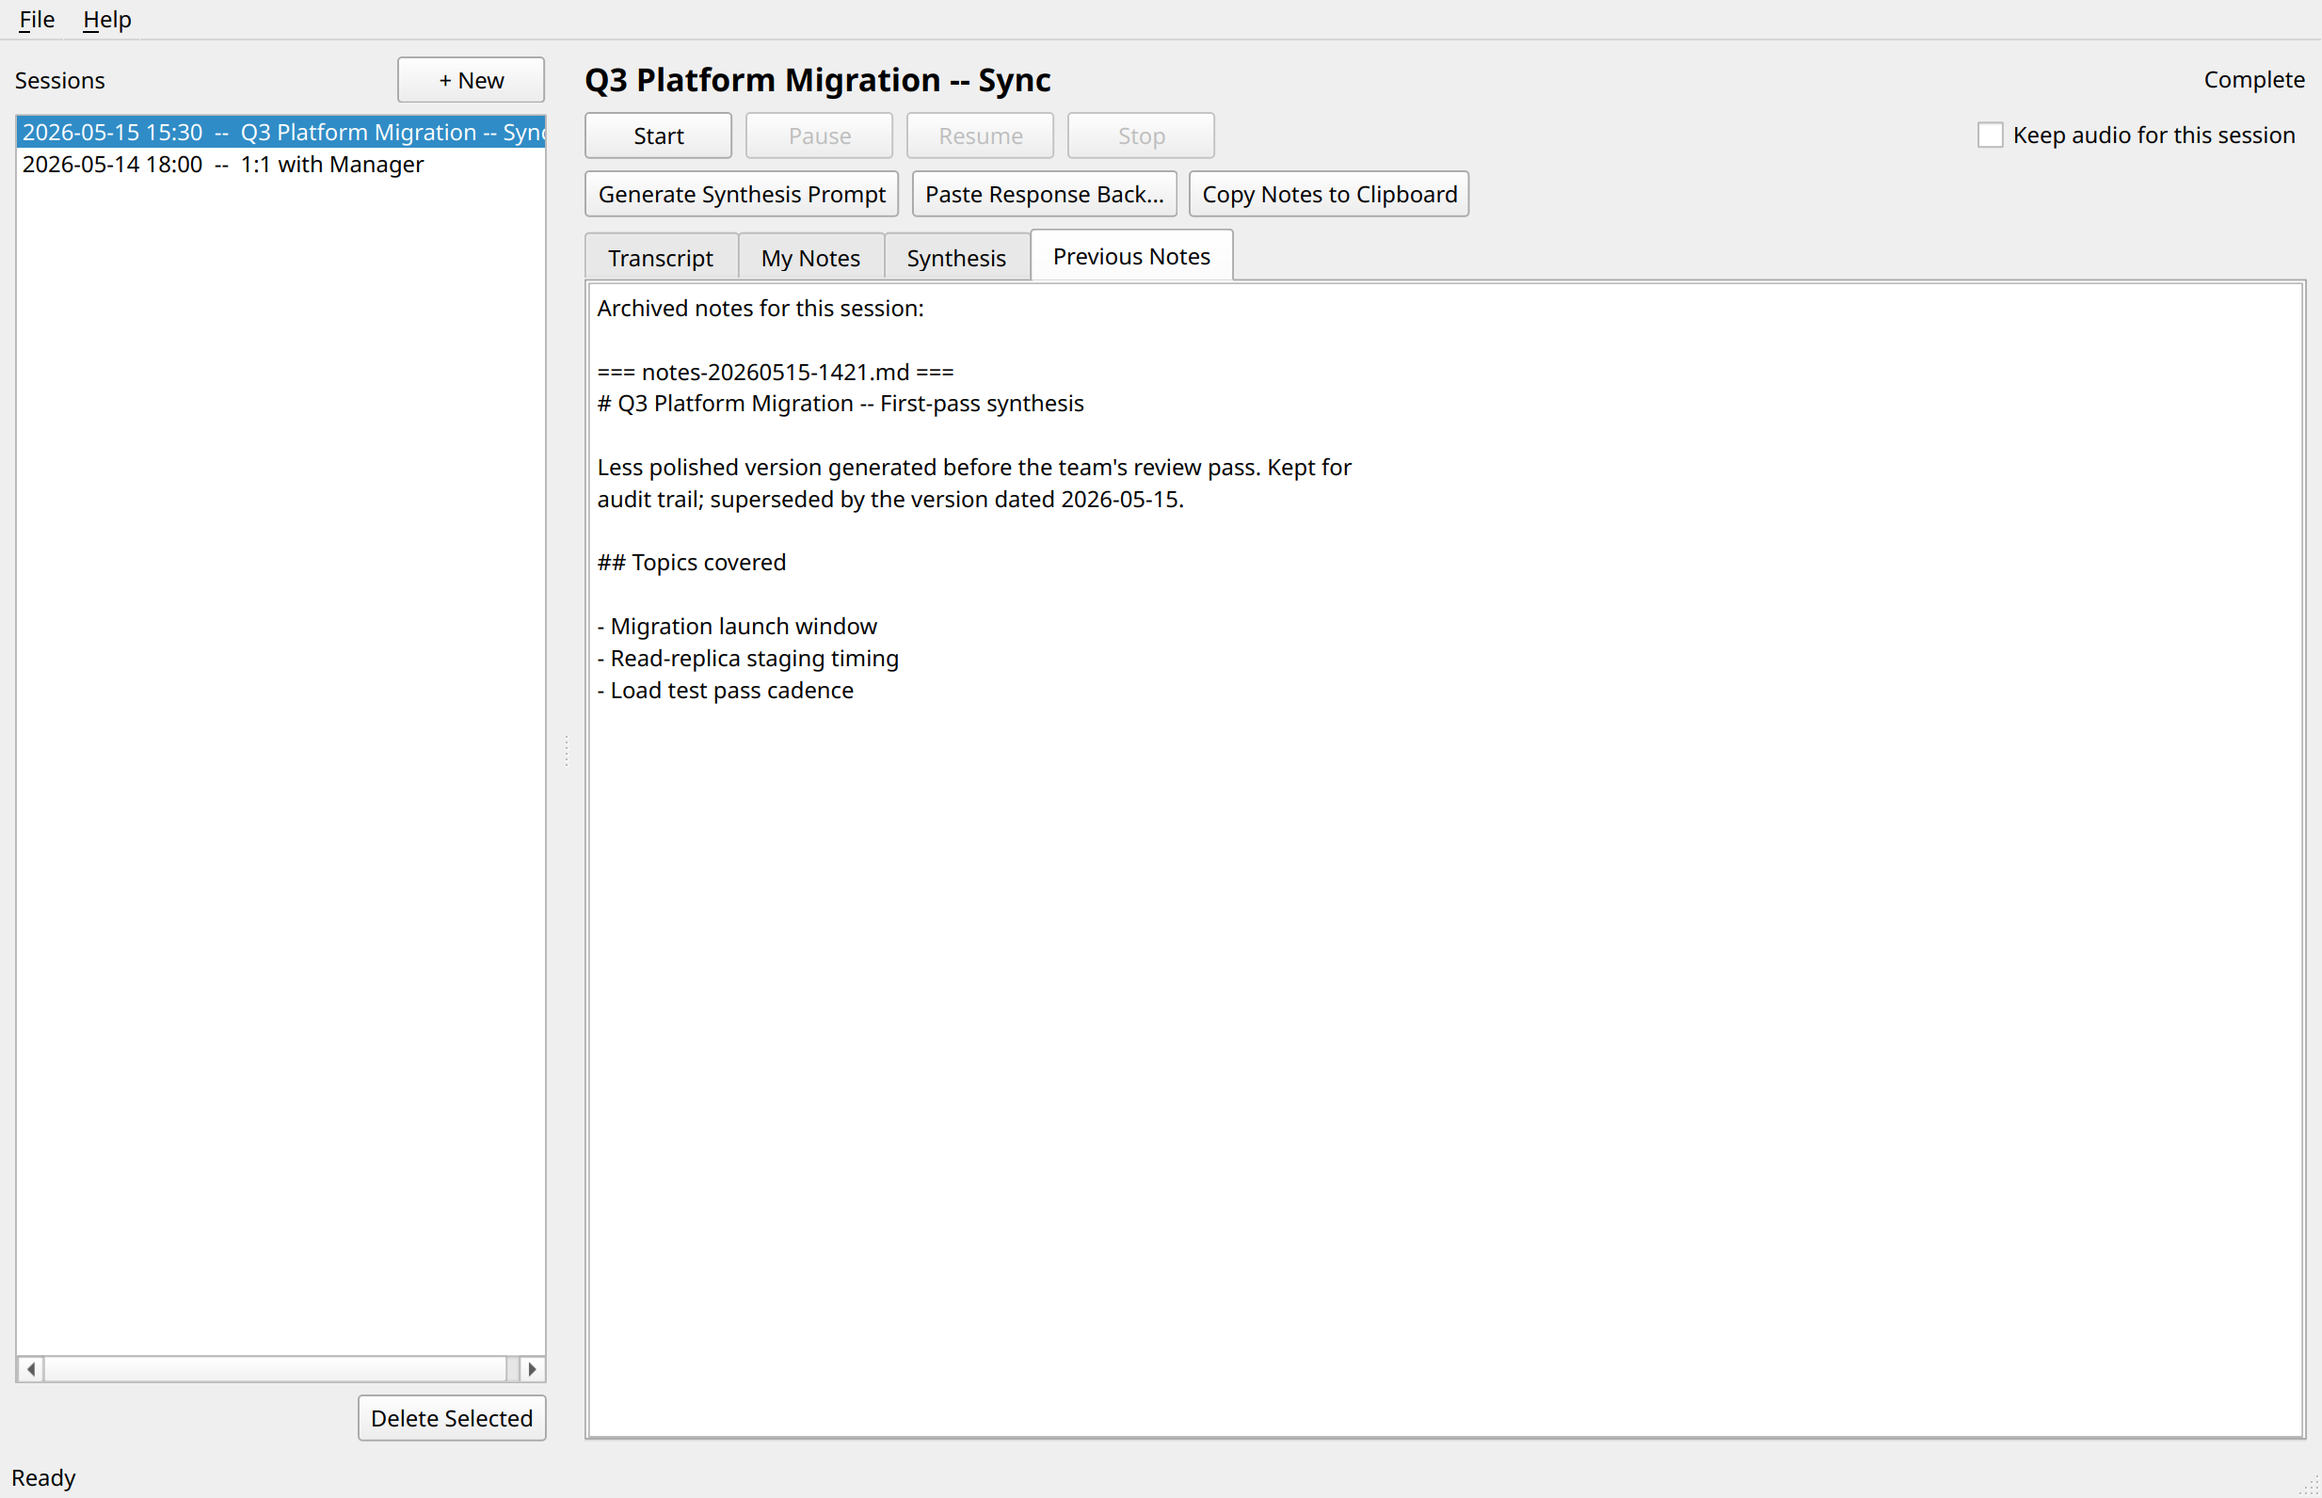
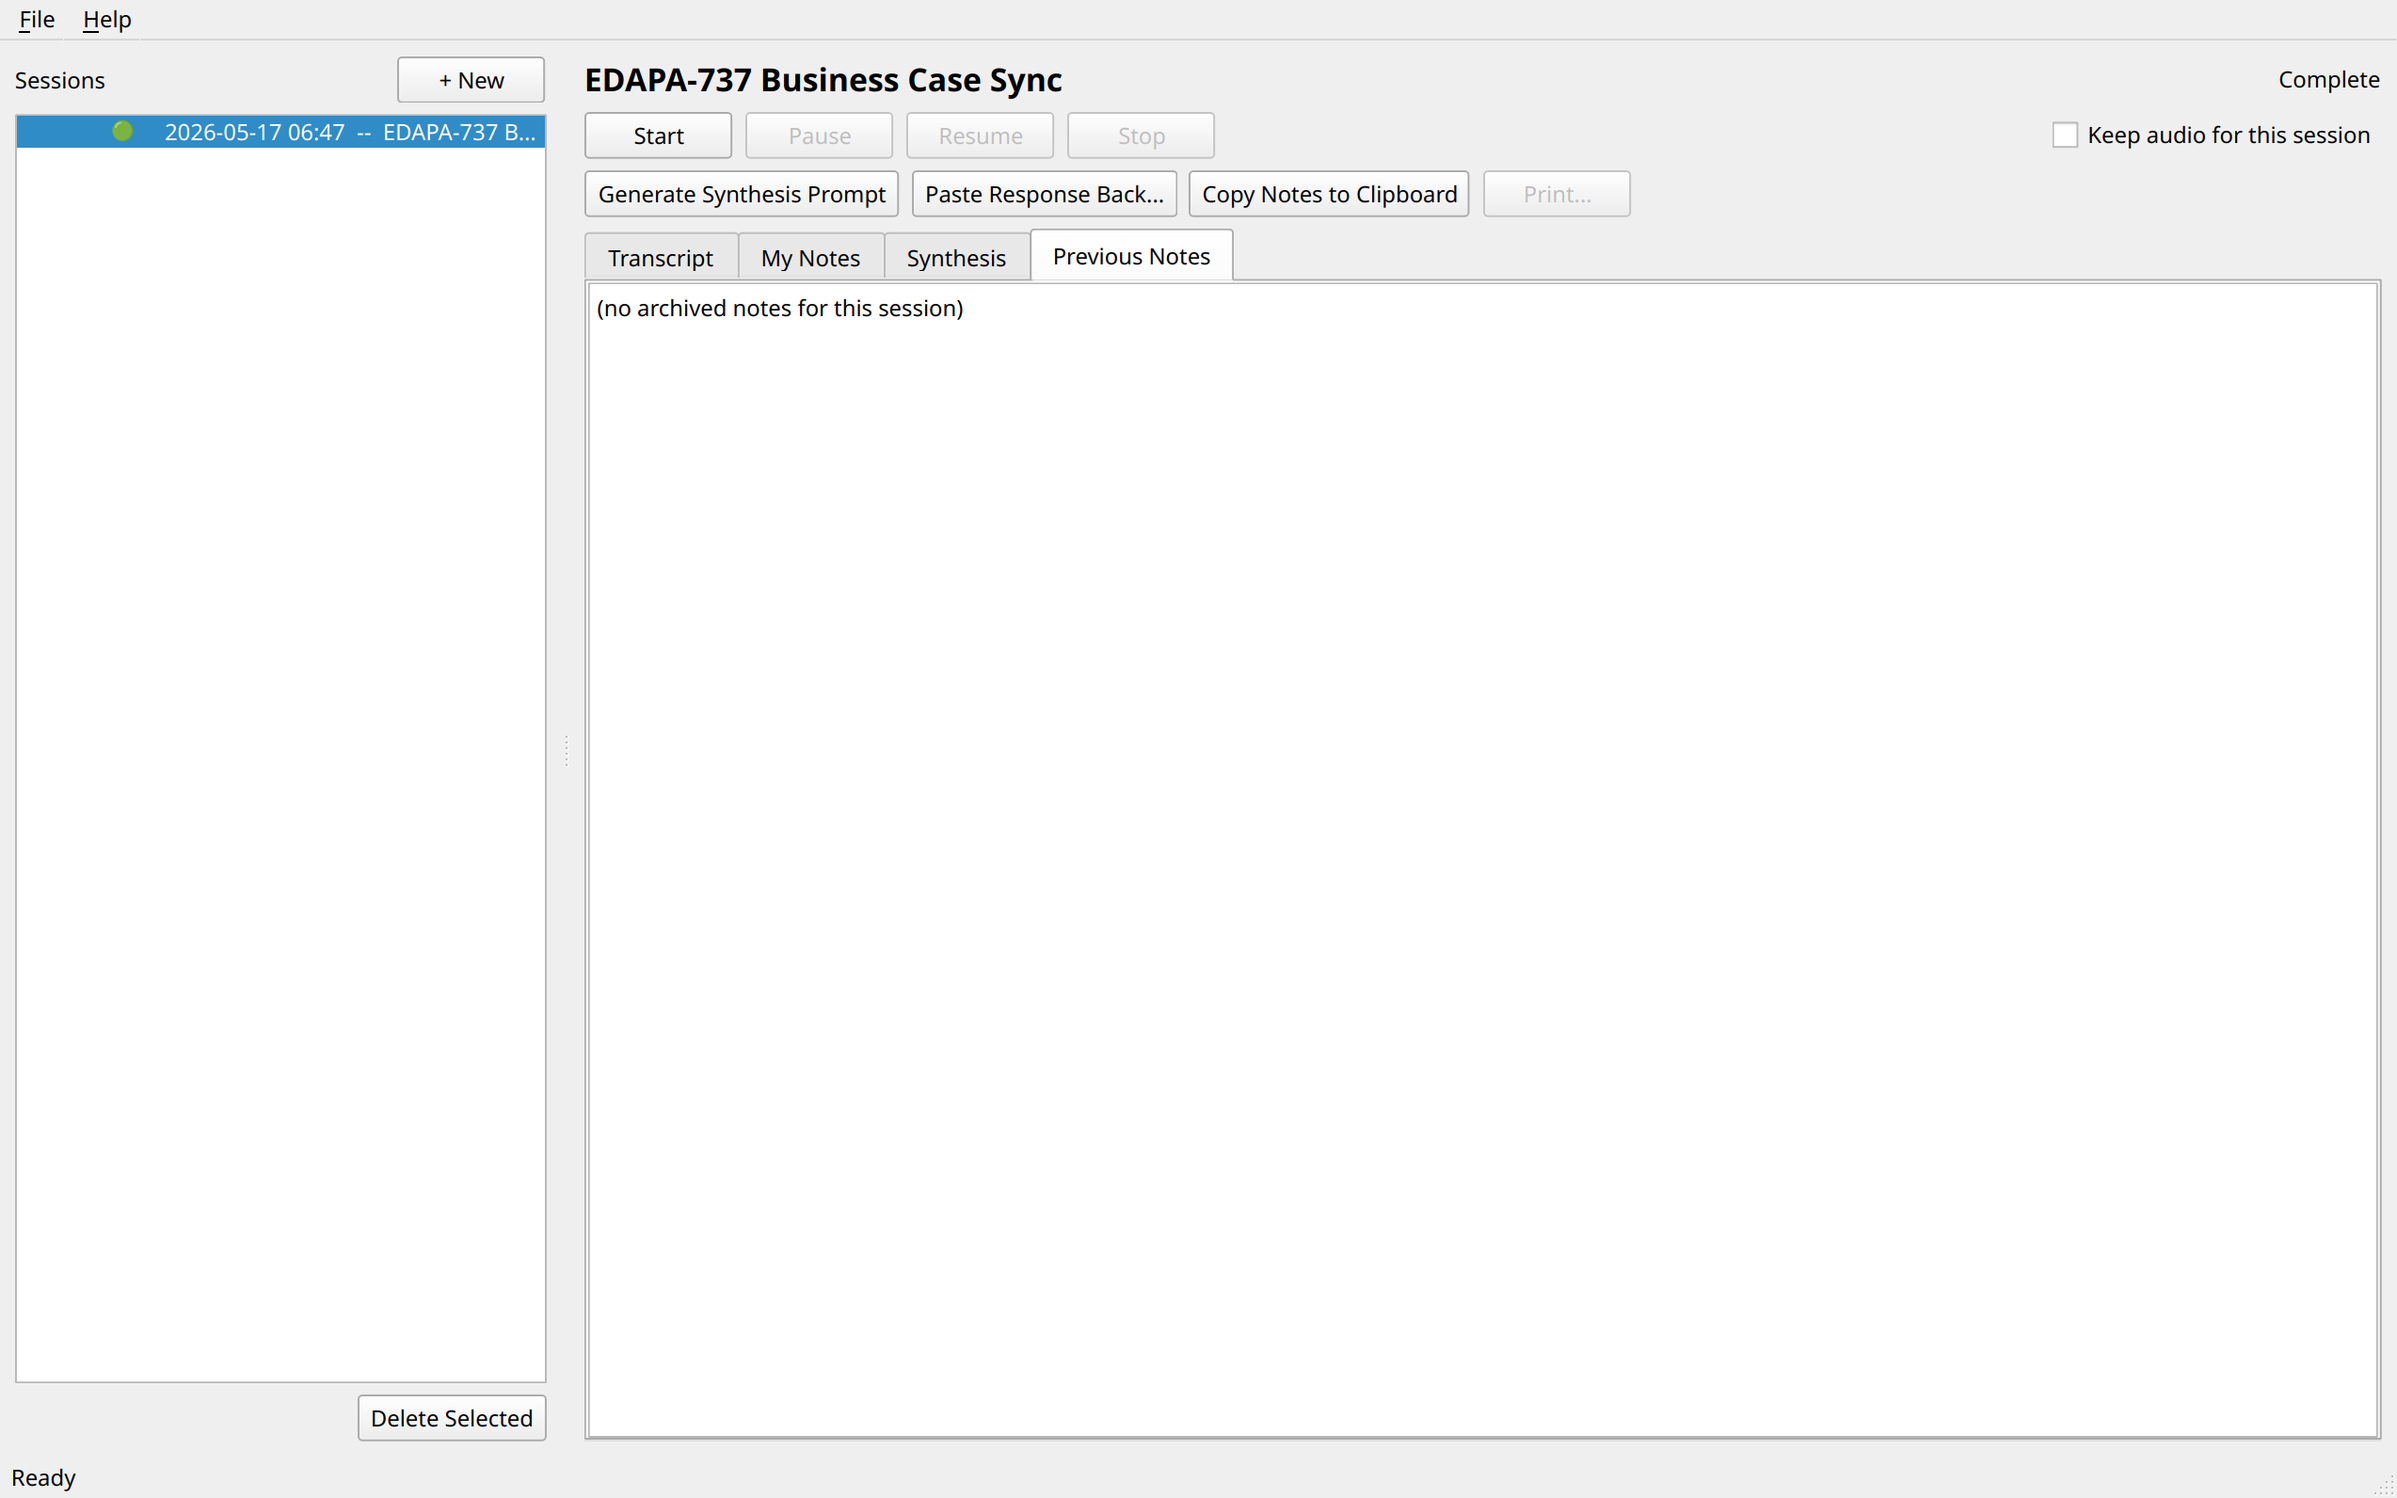
Refresh screenshots + README for image/print/update additions
- README Status line mentions image paste, Print button, and the
  weekly Help > Check for Updates path.
- My Notes paragraph documents clipboard paste / Image toolbar action
  and the session-folder image storage.
- Synthesis paragraph documents the Print button and the
  "Microsoft Print to PDF" workflow.
- New "Updates" section describes the manual / auto check cadence and
  the build-script path so users know what Upgrade... actually does.
- Five main-* screenshots re-grabbed so the new "Print..." button in
  the synthesis row and the new "Image" toolbar action in My Notes
  are visible. Generated against an example session that matches the
  prior screenshots' style.

diff --git a/README.md b/README.md
@@ -51,6 +51,9 @@ column conveys.
 source with a small formatting toolbar. Sections (`# Attendees / # Agenda
 / # Notes / # Action Items`) auto-seed on first open. Everything you
 type auto-saves continuously and is fed back into the synthesis prompt.
+Paste an image from the clipboard (or click **Image** in the toolbar to
+insert a file) and the app copies it into the session's `images/` folder
+and inserts a Markdown reference -- ideal for screenshares.
 
 ![Main window -- My Notes (edit mode)](docs/screenshots/02-main-my-notes-edit.png)
 
@@ -60,6 +63,9 @@ Click **Preview** in the toolbar to render the Markdown source in place:
 
 **Synthesis -- the response from your chatbot, rendered as Markdown.**
 Populated after you click *Paste Response Back* with the LLM's reply.
+The **Print...** button above the tabs prints whichever of My Notes or
+Synthesis is active; pick "Microsoft Print to PDF" in the printer
+dialog to save to PDF.
 
 ![Main window -- Synthesis tab](docs/screenshots/04-main-synthesis.png)
 
@@ -131,9 +137,11 @@ v0.4 alpha. End-to-end capture + transcription + synthesis works;
 v0.4 adds calendar-aware capture (Outlook COM polling -> tray
 notification -> pre-filled New Session) plus custom vocabulary (global
 plus per-session hotwords from attendees + agenda) plus an explicit
-audio-device picker. Performance tuning is ongoing; the final
-refinement pass can take a while on CPU (see "Why transcription can
-take a while" below).
+audio-device picker, image paste / insert into My Notes, a Print
+button (for "Microsoft Print to PDF" or any other printer), and a
+weekly GitHub-releases update check (Help > Check for Updates...).
+Performance tuning is ongoing; the final refinement pass can take a
+while on CPU (see "Why transcription can take a while" below).
 
 The WASAPI loopback path is cribbed from
 [Danaor/WhisperType](https://github.com/Danaor/WhisperType).
@@ -293,7 +301,23 @@ delete the session.
       metadata.json
       audio\                     # mic.wav + sys.wav (deleted after transcription
                                  # unless 'Keep audio' was set for the session)
+    images\                    # images pasted/inserted into live_notes.md
+                               # or notes.md (referenced as images/<name>)
 ```
+
+## Updates
+
+The Help menu has **Check for Updates...** (manual) and **Upgrade...**
+(download + rebuild via pyinstaller). On startup the app also runs a
+silent weekly check against GitHub releases for
+`aarondodd/meeting-notetaker`; if a newer tag exists you'll see a
+prompt. Network failures or a restricted release feed degrade to
+silent no-op, so the check never blocks startup.
+
+The Upgrade flow downloads the release zipball, extracts it, and runs
+`build.ps1` (Windows) or `build.sh` (POSIX) -- the same script you'd
+run for a manual build. After it finishes, restart the app to pick up
+the new build.
 
 ## Settings
 
